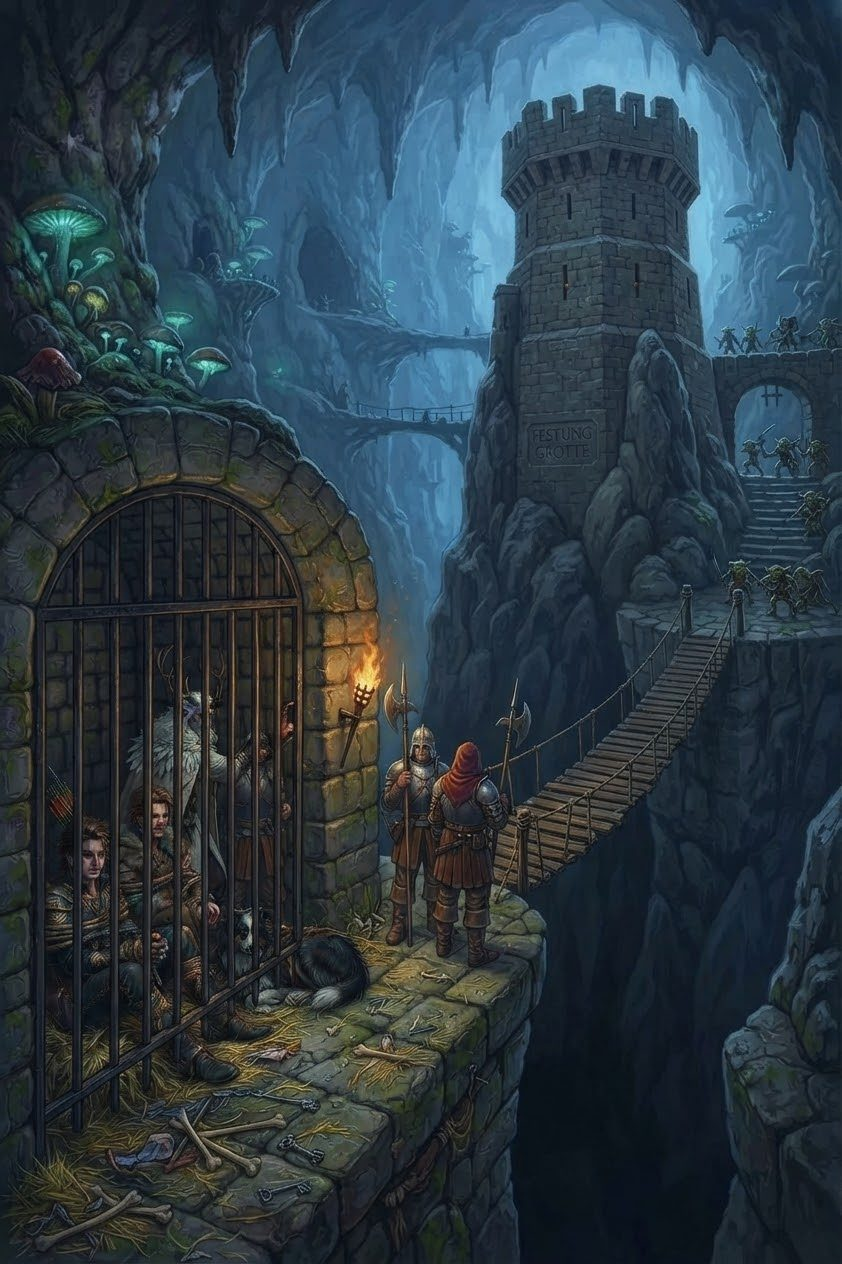
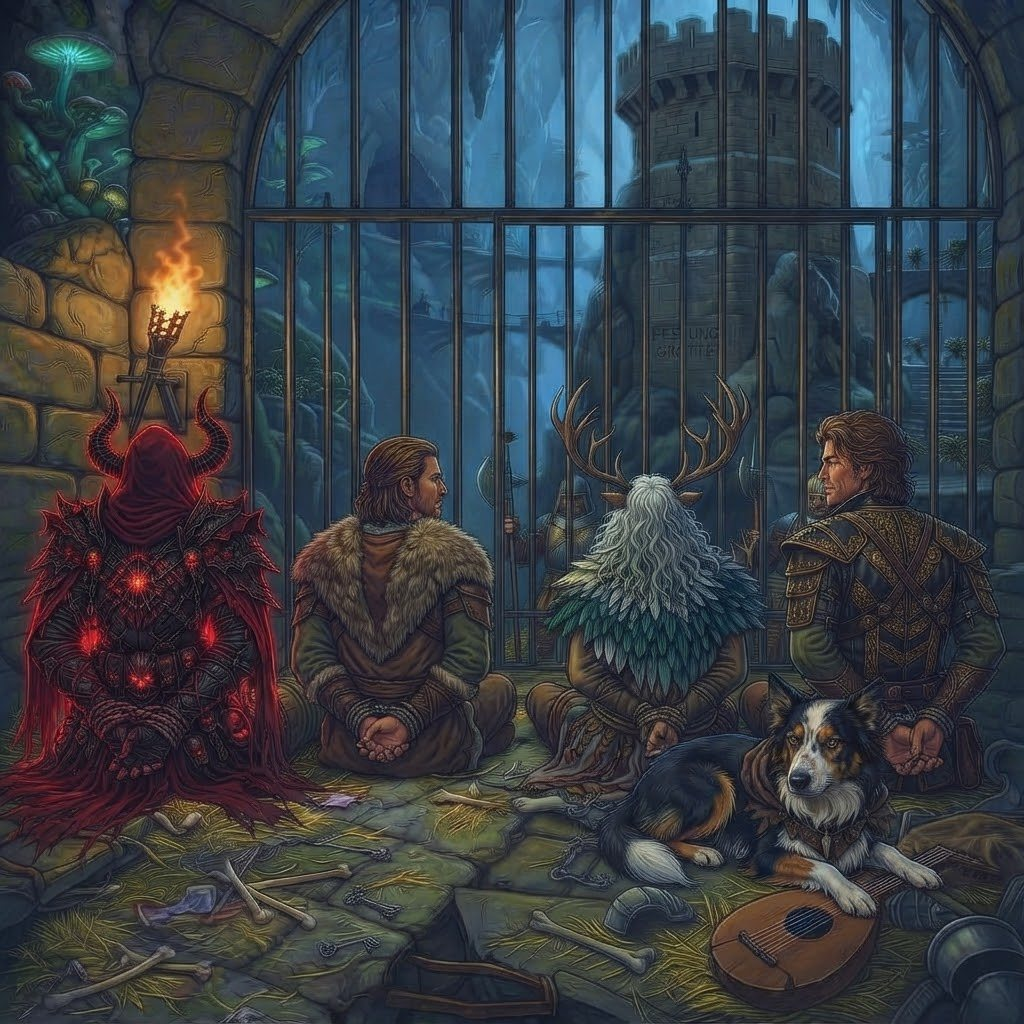
Kapitel II: neues Bild vom Erwachen im Kerker
Claude-Session: https://claude.ai/code/session_01RNAcLVtFyQdJ5yBgamkXYJ

diff --git a/inhalt.js b/inhalt.js
@@ -200,8 +200,8 @@ window.INHALT = {
         "!ilvara-wahr.webp|Ilvara Mizzrym in ihrer wahren Gestalt. Von der Hüterin des Waldes ist nicht viel übrig.|schmal links",
         "Kaum hatten wir Ilvaras Haus betreten, lag plötzlich ein süßlicher, giftiger Dampf in der Luft. Einer nach dem anderen sanken die Helden zu Boden, und mir wurde schwarz vor Augen. Die freundliche Druidin war in Wahrheit eine Gestaltwandlerin, die uns mit einem Kräuternebel betäubt hatte, und sie verschleppte uns alle. Ihr wahres Gesicht sollten wir erst später sehen: Ilvara Mizzrym, eine Drow.",
         "## Gefangen",
-        "!gefangen-kerker.jpg|Das böse Erwachen: hinter Gittern, gefesselt und bewacht. Selbst Rex schaut nicht begeistert.|schmal",
         "Wie viel Zeit vergangen war, wusste keiner von uns, als wir wieder zu uns kamen. <em class=\"aside\">Ein paar Stunden? Tage? Ich habe jedenfalls hervorragend geschlafen.</em> Die ganze Truppe lag in Ketten, tief unter der Erde, in einem gefängnisartigen Raum hinter Schloss und Riegel. Vor den Gitterstäben standen Wachen und starrten grimmig herein. Zum ersten Mal auf dieser Reise hatte ich wirklich Angst.",
+        "!gefangen-kerker.jpg|Das böse Erwachen: hinter Gittern, gefesselt und bewacht. Selbst Rex schaut nicht begeistert.|mitte",
         "Dann hatte Echo eine geniale Idee: Er verwandelte sich in eine Ratte, schlüpfte unbemerkt aus der Zelle und fand in einem Nebenraum unsere Ausrüstung. Immer noch in Tiergestalt schaffte er alles zurück zu uns. <em class=\"aside\">Einfach genial, Echo!</em>",
         "## Der Ausbruch",
         "Kaum hielten alle wieder ihre Waffen in den Händen, zögerte ich nicht lange. Ich beleidigte die Wachen so ausgiebig und so kunstvoll, dass sie wutentbrannt auf uns losgingen. Erst jetzt zeigte sich, dass die meisten Gegner gar nicht zu sehen gewesen waren: Sie warteten nebenan, hinter Brücken auf einem anderen Plateau, hörten den Kampflärm und stürmten heran.",

diff --git a/inhalt-en.js b/inhalt-en.js
@@ -193,8 +193,8 @@ window.INHALT_EN = {
         "!ilvara-wahr.webp|Ilvara Mizzrym in her true form. Not much left of the guardian of the forest.|schmal links",
         "The moment we stepped into Ilvara's house, a sweet, poisonous vapour filled the air. One after another the heroes sank to the floor, and everything went black before my eyes. The friendly druid was in truth a shapeshifter who had drugged us with an herbal mist, and she carried us all off. Her true face we would only see later: Ilvara Mizzrym, a drow.",
         "## Captured",
-        "!gefangen-kerker.jpg|A rude awakening: behind bars, bound and guarded. Even Rex does not look pleased.|schmal",
         "None of us knew how much time had passed when we came to. <em class=\"aside\">A few hours? Days? Either way, I slept splendidly.</em> The whole band lay in chains, deep beneath the earth, in a prison-like chamber under lock and key. Guards stood outside the bars, glaring in grimly. For the first time on this journey, I was truly afraid.",
+        "!gefangen-kerker.jpg|A rude awakening: behind bars, bound and guarded. Even Rex does not look pleased.|mitte",
         "Then Echo had a brilliant idea: he turned into a rat, slipped out of the cell unnoticed and found our gear in a neighbouring room. Still in animal form, he brought everything back to us. <em class=\"aside\">Simply brilliant, Echo!</em>",
         "## The Breakout",
         "As soon as everyone held their weapons again, I did not hesitate. I insulted the guards so thoroughly and so artfully that they charged at us in a blind rage. Only now did it become clear that most of the enemies had been out of sight: they were waiting next door, beyond bridges on another platform, heard the clash of battle and came storming in.",

diff --git a/index.html b/index.html
@@ -354,6 +354,8 @@ section.part { padding-block: clamp(3rem, 8vw, 6rem); border-top: 1px solid var(
 .chapter .prose figure.frei { float: right; width: min(21rem, 48%); margin: .2rem 0 .8rem 1.4rem; }
 .chapter .prose figure.frei img { border: 0; filter: drop-shadow(0 8px 22px rgba(0,0,0,.6)); }
 .chapter .prose figure.frei figcaption { font-size: .76rem; }
+.chapter .prose figure.mitte { width: min(26rem, 100%); margin: 1.6rem auto; clear: both; }
+.chapter .prose figure.mitte figcaption { text-align: center; }
 .chapter .prose figure.frei.hoch { width: min(13rem, 40%); }
 .chapter .prose figure.frei.links { float: left; margin: .2rem 1.4rem .8rem 0; }
 .chapter .prose figure.schmal img { border: 0; filter: drop-shadow(0 6px 18px rgba(0,0,0,.55)); }
